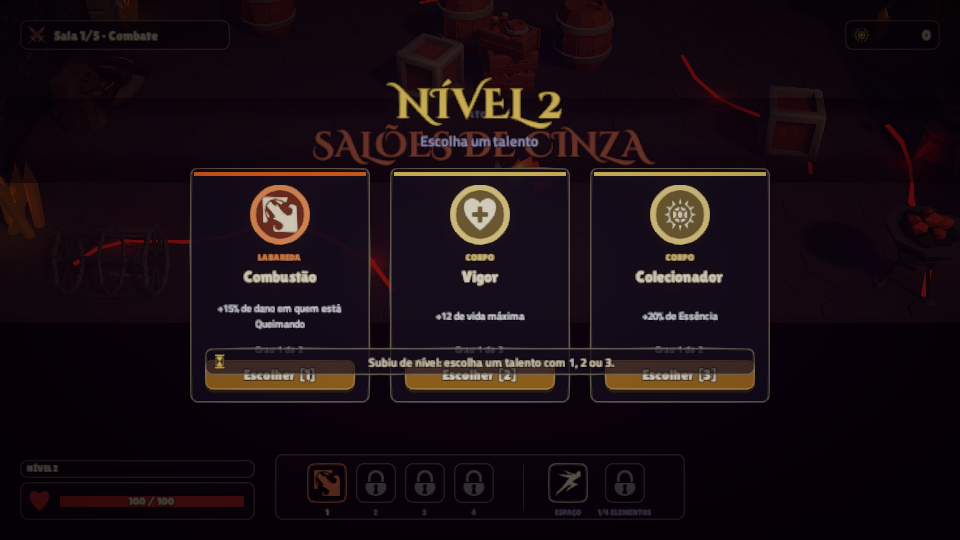
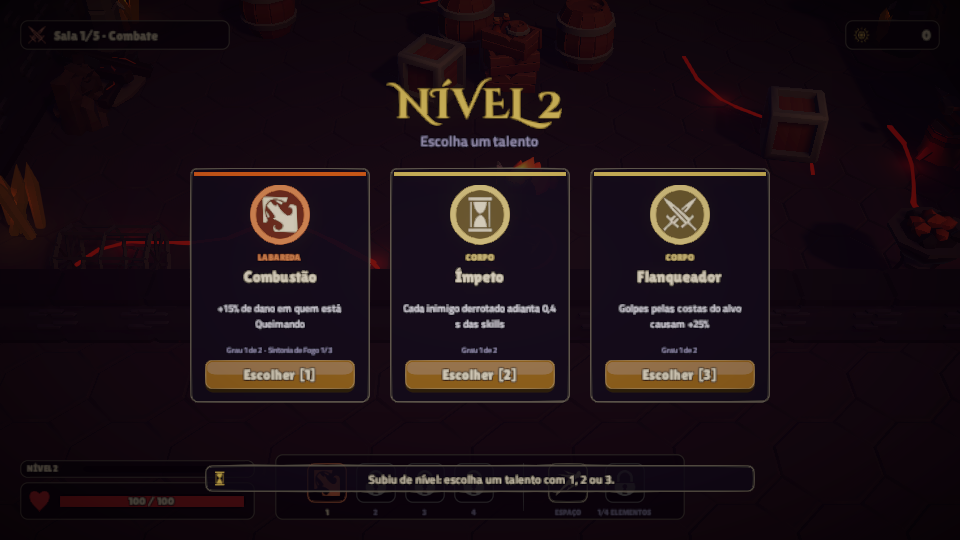
Build: Sintonia (3 pontos de um elemento = skill +20%; 5 = recarga 15% menor), mostrada no cartão do talento e anunciada ao ganhar

diff --git a/docs/progresso.html b/docs/progresso.html
@@ -37,7 +37,7 @@
 
   <section id="manha1">
     <h2>Manhã, primeira leva: Porta-Estandarte e talentos de combo</h2>
-    <div class="meta"><span class="tag who">Enzo</span><span class="tag who">Leonardo</span><span class="tag who">Nicolas</span><span class="tag who">Miguel</span><span class="tag ok">539 testes de regra + 33 testes jogando, todos passando</span></div>
+    <div class="meta"><span class="tag who">Enzo</span><span class="tag who">Leonardo</span><span class="tag who">Nicolas</span><span class="tag who">Miguel</span><span class="tag ok">540 testes de regra + 33 testes jogando, todos passando</span></div>
     <div class="cols">
       <img src="img/inimigo_estandarte.png" alt="Porta-Estandarte com o círculo carmim da aura, fortalecendo um Rastejante">
       <div>
@@ -51,6 +51,11 @@
         <ul>
           <li><b>Contágio:</b> quando um inimigo marcado cai, a marca pula para o vizinho mais perto. Marcar, derrubar com o golpe básico e detonar no próximo vira uma corrente pelo bando (oferecido com dois elementos)</li>
           <li><b>Alquimia:</b> Fusões causam +40% (oferecido com três elementos)</li>
+        </ul>
+        <h3 style="margin-top:14px">Build: Sintonia</h3>
+        <ul>
+          <li>Concentrar talentos de um elemento fortalece aquele elemento: <b>3 pontos</b> = skill +20% de dano; <b>5 pontos</b> = também recarrega 15% mais rápido. Talentos de reação contam para os dois elementos do par</li>
+          <li>O cartão do talento mostra "Sintonia de Fogo 2/3" (em dourado quando fecha um grau) e o herói anuncia quando ganha a Sintonia</li>
         </ul>
         <h3 style="margin-top:14px">Sala nova: Cerco</h3>
         <ul>

diff --git a/Assets/Game/Run/Progression.cs b/Assets/Game/Run/Progression.cs
@@ -105,14 +105,73 @@ namespace Quintessence.Run
             Taken.Add(t);
         }
 
+        /// Elemento e grau da Sintonia que o ultimo Take subiu (None/0 = nenhuma). Para a tela avisar.
+        public ElementType LastSynergy { get; private set; }
+        public int LastSynergyTier { get; private set; }
+
         public bool Take(Talent t, HeroModifiers mods)
         {
             if (!CanTake(t)) return false;
+            int beforeA = Synergy.Tier(this, t.Element), beforeB = Synergy.Tier(this, t.Second);
             ranks[t.Id] = Rank(t.Id) + 1;
             Taken.Add(t);
             TalentCatalog.Apply(mods, t);
+            LastSynergy = ElementType.None; LastSynergyTier = 0;
+            Raise(t.Element, beforeA, mods);
+            Raise(t.Second, beforeB, mods);
             return true;
         }
+
+        void Raise(ElementType e, int before, HeroModifiers mods)
+        {
+            if (e == ElementType.None) return;
+            int now = Synergy.Tier(this, e);
+            for (int tier = before + 1; tier <= now; tier++) Synergy.Apply(mods, e, tier);
+            if (now > before) { LastSynergy = e; LastSynergyTier = now; }
+        }
+    }
+
+    /// Sintonia: concentrar talentos de um elemento (os da skill e os de reacao que o envolvem) fortalece aquele elemento.
+    /// Grau 1 (3 pontos): skill +20% de dano. Grau 2 (5 pontos): tambem recarrega 15% mais rapido.
+    public static class Synergy
+    {
+        public const int Tier1 = 3, Tier2 = 5;
+        public const float DamageBonus = 0.2f, CooldownFactor = 0.85f;
+
+        public static int Points(TalentBook book, ElementType e)
+        {
+            if (book == null || e == ElementType.None) return 0;
+            int n = 0;
+            foreach (var t in book.Taken) if (t.Element == e || t.Second == e) n++;
+            return n;
+        }
+
+        public static int Tier(TalentBook book, ElementType e) => TierFor(Points(book, e));
+        public static int TierFor(int points) => points >= Tier2 ? 2 : points >= Tier1 ? 1 : 0;
+
+        public static void Apply(HeroModifiers m, ElementType e, int tier)
+        {
+            if (tier == 1) m.AddElementDamage(e, DamageBonus);
+            else if (tier == 2) m.ScaleSkillCooldown(e, CooldownFactor);
+        }
+
+        public static string ElementName(ElementType e) => e switch
+        {
+            ElementType.Fire => "Fogo", ElementType.Water => "Água", ElementType.Earth => "Terra", ElementType.Air => "Ar", _ => "",
+        };
+
+        /// O que o cartao do talento mostra: quantos pontos de Sintonia ele leva o elemento a ter, e ate onde.
+        public static string Hint(TalentBook book, Talent t)
+        {
+            var e = t.Element;
+            if (e == ElementType.None) return "";
+            int after = Points(book, e) + 1;
+            int goal = after <= Tier1 ? Tier1 : Tier2;
+            if (after > Tier2) return $"Sintonia de {ElementName(e)} completa";
+            return $"Sintonia de {ElementName(e)} {after}/{goal}" + (after == Tier1 || after == Tier2 ? "!" : "");
+        }
+
+        public static string Describe(int tier) => tier == 1 ? "skill +20% de dano" : tier == 2 ? "skill recarrega 15% mais rápido" : "";
     }
 
     public static class TalentCatalog

diff --git a/Assets/Game/Run/Tests/Editor/ProgressionTests.cs b/Assets/Game/Run/Tests/Editor/ProgressionTests.cs
@@ -206,5 +206,39 @@ namespace Quintessence.Run.Tests
             TalentCatalog.Apply(m, TalentCatalog.All.First(t => t.Id == "body_alchemy"));
             Assert.AreEqual(0.4f, m.FusionBonus, 1e-4f);
         }
+
+        [Test] public void Synergy_ThreeAndFivePointsOfAnElement_StrengthenIt()
+        {
+            var book = new TalentBook();
+            var m = new HeroModifiers();
+            Talent T(string id) => TalentCatalog.All.First(t => t.Id == id);
+            book.Take(T("fire_trail"), m);
+            book.Take(T("fire_range"), m);
+            Assert.AreEqual(0, book.LastSynergyTier);
+            Assert.AreEqual(1f, m.Damage(ElementType.Fire), 1e-4f);
+            Assert.AreEqual("Sintonia de Fogo 3/3!", Synergy.Hint(book, T("fire_burning")), "o cartao avisa que este fecha a Sintonia");
+            book.Take(T("fire_burning"), m);
+            Assert.AreEqual(ElementType.Fire, book.LastSynergy);
+            Assert.AreEqual(1, book.LastSynergyTier);
+            Assert.AreEqual(1f + Synergy.DamageBonus, m.Damage(ElementType.Fire), 1e-4f, "grau 1: +20% no Fogo");
+            Assert.AreEqual(1f, m.Damage(ElementType.Water), 1e-4f, "os outros elementos nao mudam");
+            // talento de reacao conta para os dois elementos do par
+            var steam = TalentCatalog.All.First(t => t.Effect == TalentEffect.ReactionBoost && ((t.Element == ElementType.Fire && t.Second == ElementType.Water) || (t.Element == ElementType.Water && t.Second == ElementType.Fire)));
+            book.Take(steam, m);
+            Assert.AreEqual(4, Synergy.Points(book, ElementType.Fire));
+            Assert.AreEqual(1, Synergy.Points(book, ElementType.Water));
+            float cdBefore = m.SkillCooldown(ElementType.Fire);
+            book.Take(T("fire_range"), m); // segundo grau do mesmo talento tambem conta
+            Assert.AreEqual(2, book.LastSynergyTier, "cinco pontos: grau 2");
+            Assert.AreEqual(cdBefore * Synergy.CooldownFactor, m.SkillCooldown(ElementType.Fire), 1e-4f);
+            Assert.AreEqual(1f + Synergy.DamageBonus, m.Damage(ElementType.Fire), 1e-4f, "o bonus de dano nao dobra");
+            // voltar de um save nao aplica de novo
+            var restored = new TalentBook();
+            var clean = new HeroModifiers();
+            foreach (var t in book.Taken) restored.Restore(t);
+            Assert.AreEqual(1f, clean.Damage(ElementType.Fire));
+            Assert.AreEqual(2, Synergy.Tier(restored, ElementType.Fire));
+            Assert.AreEqual("", Synergy.Hint(book, T("body_basic")), "talento de corpo nao entra na Sintonia");
+        }
     }
 }

diff --git a/Assets/Game/UI/Hud.cs b/Assets/Game/UI/Hud.cs
@@ -102,8 +102,12 @@ namespace Quintessence.UI
                 var desc = UiKit.Text(UiKit.Rect("Desc", card, new Vector2(0.5f, 1), new Vector2(0, -250), new Vector2(310, 96)), t.Description, 23, UiKit.Paper, TextAnchor.MiddleCenter, false);
                 desc.horizontalOverflow = HorizontalWrapMode.Wrap;
                 int rank = talents != null ? talents.Rank(t.Id) : 0;
-                if (t.MaxRank > 1)
-                    UiKit.Text(UiKit.Rect("Rank", card, new Vector2(0.5f, 1), new Vector2(0, -350), new Vector2(330, 26)), $"Grau {rank + 1} de {t.MaxRank}", 19, UiKit.Dim, TextAnchor.MiddleCenter, false);
+                // grau do talento e, nos de elemento, quanto ele soma para a Sintonia
+                string syn = Synergy.Hint(talents, t);
+                string rankLine = (t.MaxRank > 1 ? $"Grau {rank + 1} de {t.MaxRank}" : "") + (syn.Length > 0 ? (t.MaxRank > 1 ? "  ·  " : "") + syn : "");
+                if (rankLine.Length > 0)
+                    UiKit.Text(UiKit.Rect("Rank", card, new Vector2(0.5f, 1), new Vector2(0, -350), new Vector2(330, 26)), rankLine, 18,
+                        syn.EndsWith("!") ? new Color(0.9f, 0.76f, 0.42f) : UiKit.Dim, TextAnchor.MiddleCenter, false);
                 var b = UiKit.Button(card, $"Escolher  [{i + 1}]", new Vector2(0.5f, 0), new Vector2(0, 26), new Vector2(300, 60), UiKit.Primary, () => pick(index));
                 if (i == 0) UiKit.Focus(b.gameObject);
             }

diff --git a/Assets/Game/Game/RunDirector.cs b/Assets/Game/Game/RunDirector.cs
@@ -1168,6 +1168,13 @@ namespace Quintessence.Game
             if (masteryPicks > 0) masteryPicks--;
             Run.Talents.Take(t, player.Modifiers);
             ApplyMaxHealth();
+            if (Run.Talents.LastSynergyTier > 0)
+            {
+                var se = Run.Talents.LastSynergy;
+                Feel.DamageNumber.Spawn(player.transform.position + Vector3.up * 4.4f, $"SINTONIA DE {Synergy.ElementName(se).ToUpperInvariant()}: {Synergy.Describe(Run.Talents.LastSynergyTier)}",
+                    Color.Lerp(ElementColors.Of(se), Color.white, 0.3f), 1.05f, 2.4f);
+                Sfx.Play("feat");
+            }
             Sfx.Play("pickup");
             if (levelUpOpen)
             {

diff --git a/docs/GDD.md b/docs/GDD.md
@@ -149,6 +149,7 @@ Os tipos entram aos poucos: Ceifador na segunda sala, Cinzentos na terceira, Arr
 - **Entre runs:** Fragmentos, 3 por sala vencida e 15 por vencer o Guardião. No **Refúgio** compram sete melhorias permanentes: Vigor (vida), Força (dano), Bolsa (Essência inicial), Foco (Quintessência), Fôlego (cura por sala), Sabedoria (experiência) e Intuição (trocar as opções de talento). O progresso é salvo no navegador.
 - **Continuar:** a run é gravada ao entrar em cada sala. Fechar o jogo e voltar retoma do começo daquela sala. Começar uma run nova ou terminá-la apaga o save.
 - **Ascensão:** cada vitória libera um nível de desafio (até cinco). Cada nível dá +12% de vida e +10% de dano aos inimigos e +25% de Fragmentos.
+- **Sintonia:** concentrar talentos de um elemento (os da skill dele e os de reação que o envolvem) fortalece aquele elemento: com 3 pontos a skill causa +20%; com 5, também recarrega 15% mais rápido. O cartão do talento mostra quantos pontos ele soma; é o motivo para especializar o build.
 - **Feitos:** dez metas permanentes, cada uma paga 10 Fragmentos uma vez: vencer uma run, vencer com os quatro heróis, maestria 5, vencer na Ascensão 3, despertar a Quintessência, cumprir uma Provação, fazer uma Fusão, 100 abates numa run, quebrar o escudo de um chefe e terminar com 6 talentos. Painel no título (FEITOS) e aviso no fim da run.
 - **Maestria por herói:** cada run dá experiência ao herói usado (uma por sala vencida, uma a cada 10 abates, 10 pela vitória). São cinco níveis, e cada um vale só para aquele herói: 1) +10 de vida, 2) um talento à escolha no começo da run, 3) +8% de dano, 4) +1 troca de talentos, 5) começa com 30 de Essência. Aparece na carta do herói, no Refúgio, no Grimório e no fim da run.
 
